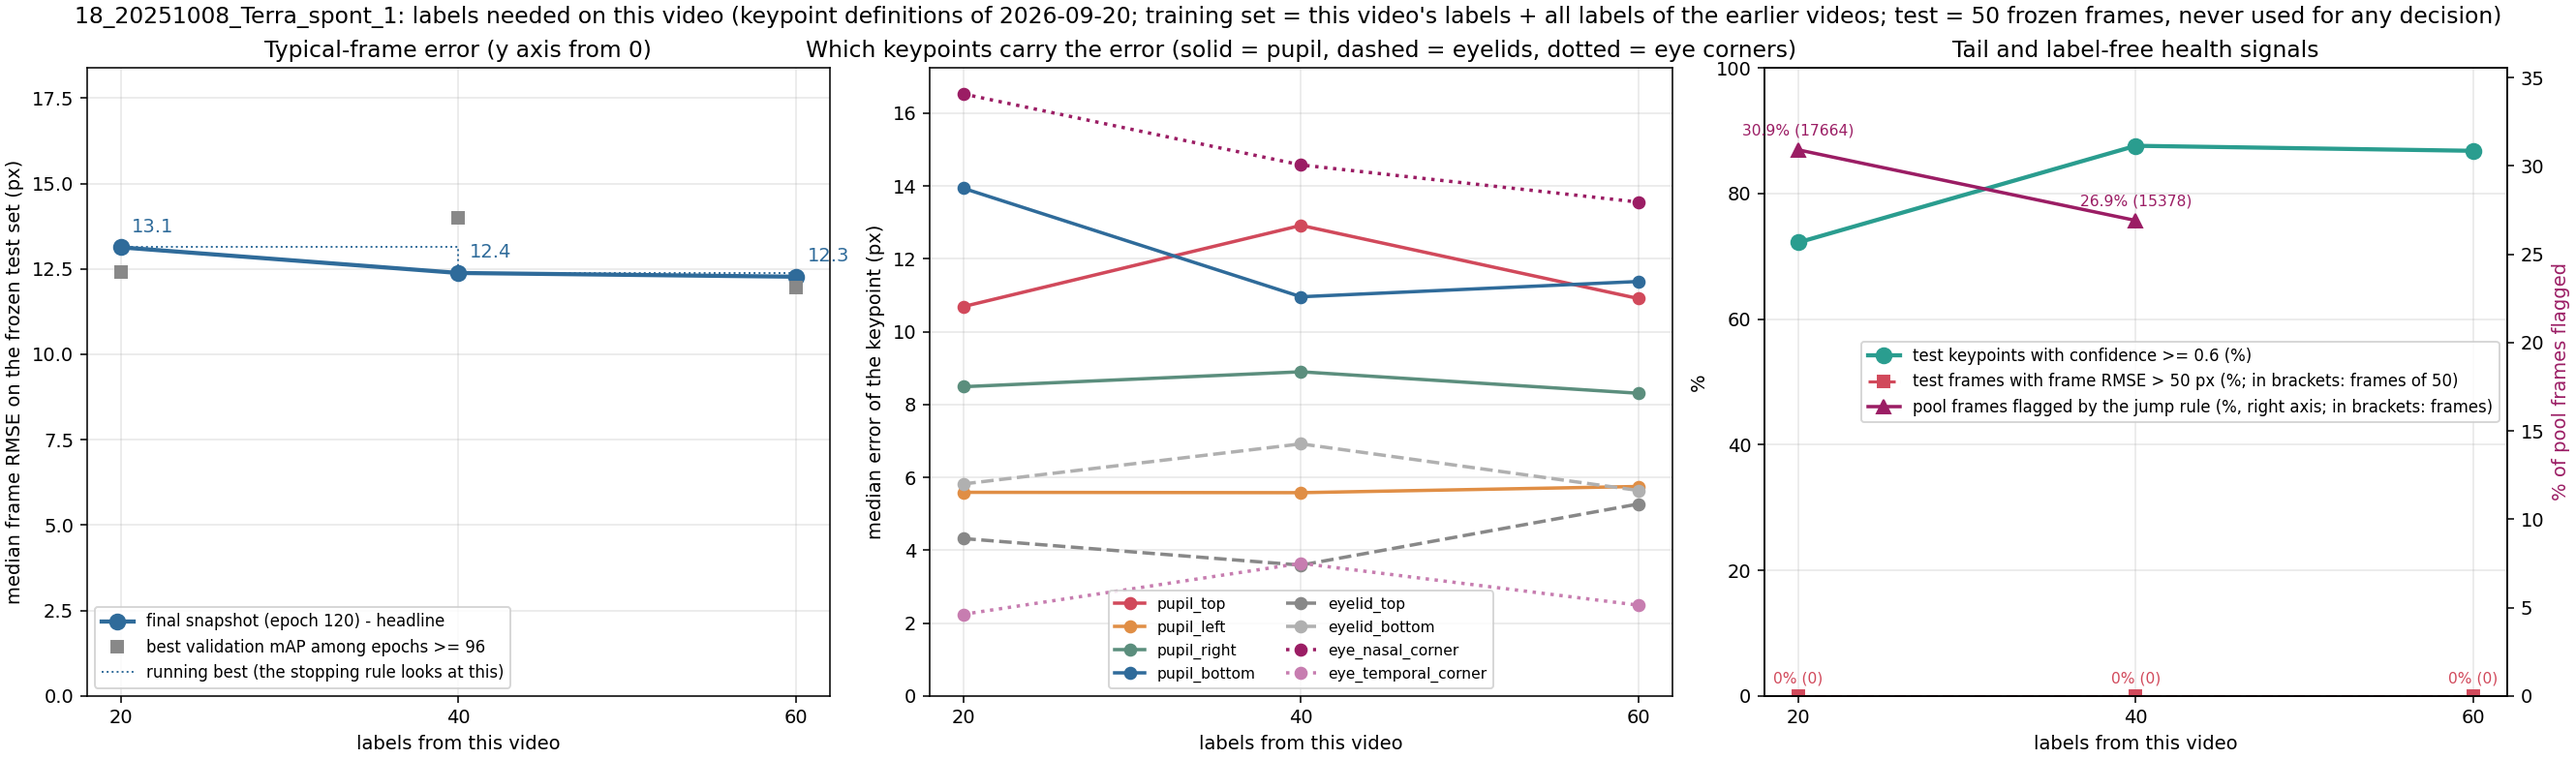
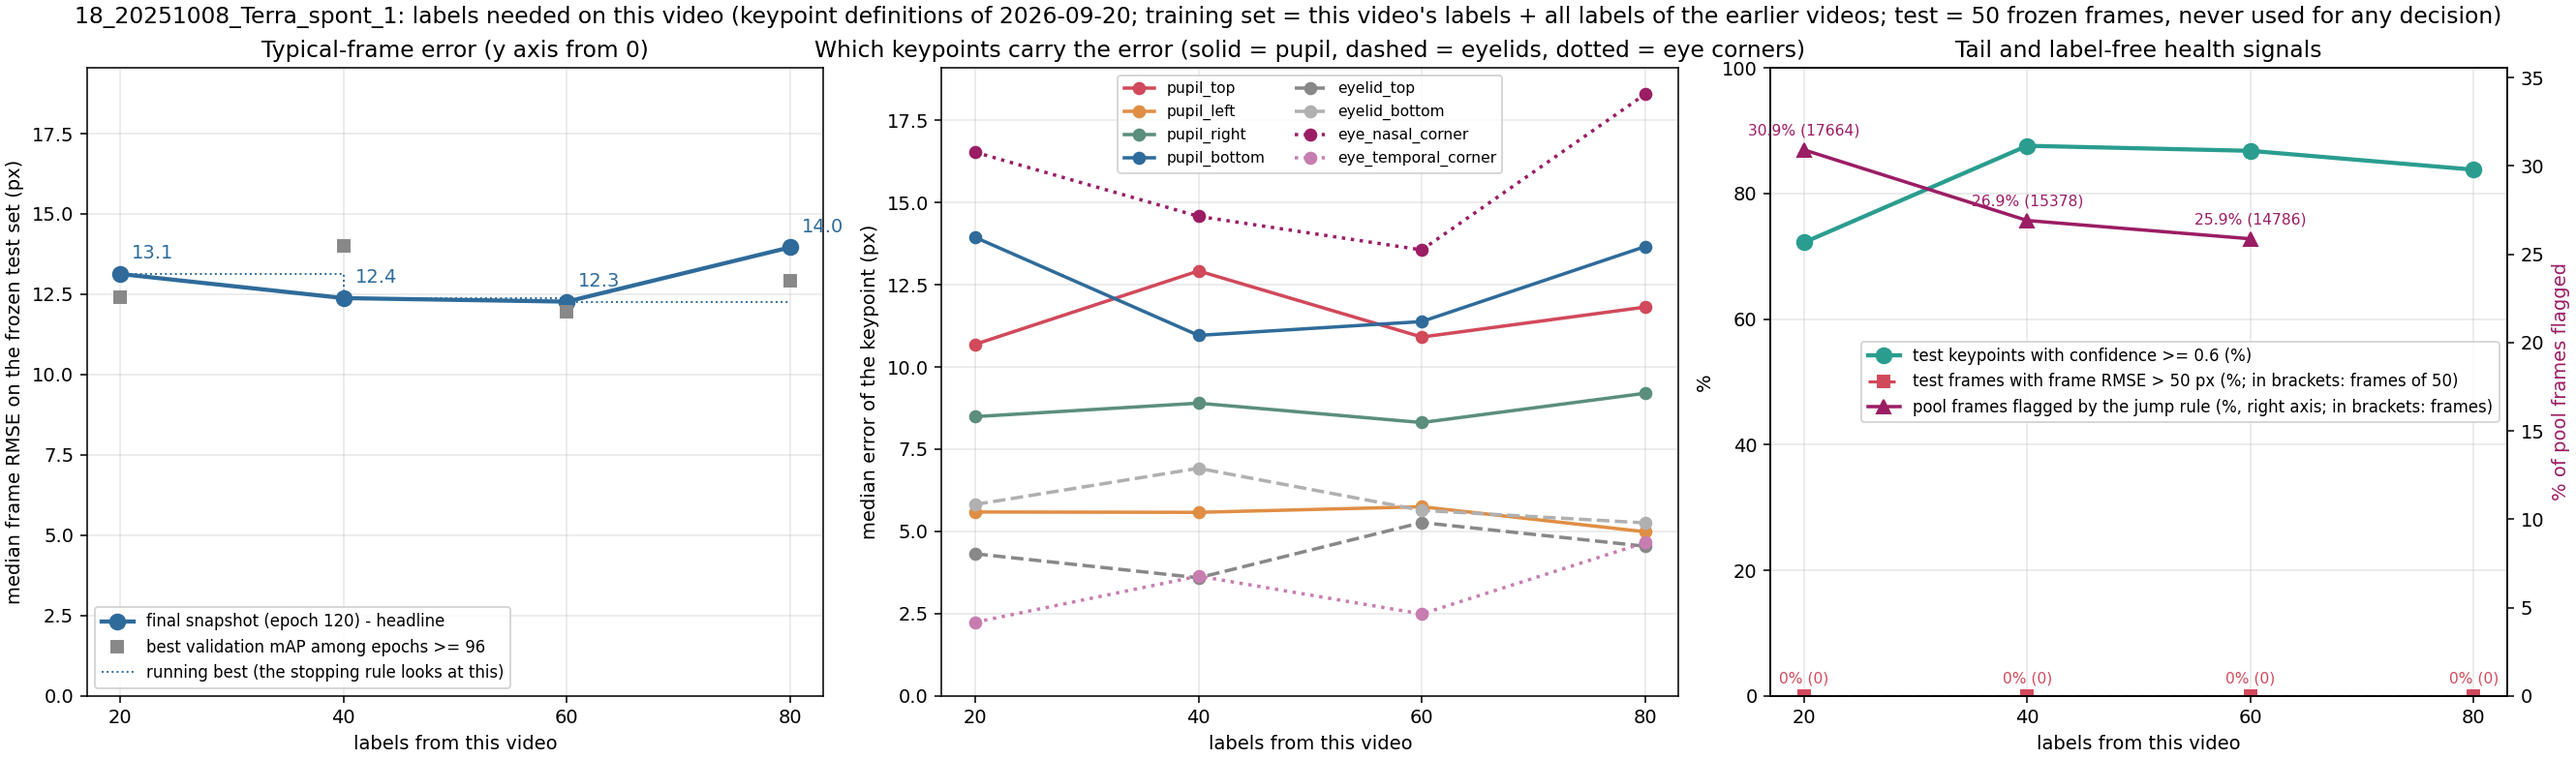
Video 18 step 4: 80 labels = 13.96 px, plateau rule fired at 40 labels (12.38 px); video 18 closed

diff --git a/README.md b/README.md
@@ -32,7 +32,7 @@ per-frame predictions stay local; git carries code, documentation and audited ag
 | Finished | **video 16** (Terra, 2025-10-10): test50 / val20 / batch01 extracted on 2026-10-08 (model-free) and pre-labeled with the video-15 plateau model (1612, 40 labels) and corrected by the labeler on 2026-10-08 (test50: 136 of 400 points moved), test set frozen; 0 labels (model 1612) = 11.35 px (p90 23.1, 0% of frames > 50 px, 76% of keypoints with confidence >= 0.6); 20 labels (shuffle 1711) = 7.72 px (p90 11.5, 2% of frames > 50 px, 96% confidence; 32% better than the 0-label number); batch 2 selected (only 464 of 57158 pool frames flagged by the jump rule, 0.8%: the 20-label model tracks this day smoothly) and labeled; 40 labels (shuffle 1712) = 7.15 px (p90 11.3, 0% > 50 px, 98% confidence; 7.4% better than 7.72, an improving step); batch 3 selected (347 of 57158 pool frames flagged, 0.6%) and labeled; 60 labels (shuffle 1713) = 7.26 px (p90 10.1; 1.5% worse than the running best 7.15: first step without a gain above 3%); batch 4 selected (290 flagged) and labeled; 80 labels (shuffle 1714) = 7.78 px (p90 12.2; worse than 7.15): second flat step, the plateau rule fired at 80 labels (2026-10-10 02:23), plateau point 40 labels = 7.15 px; closed on 2026-10-10 by the user's decision (tag `v0.9.18-video16-plateau`), batches 1-2 carried (740 labels into video 17). Fewer-labels: 5 labels 9.18 / 10.42 px, 10 labels 9.35 / 9.18 px (all above the 20-label 7.72 px). Training set of every step = 700 carried labels of videos 0-15 + this video's labels; shuffles 1711, 1712, ... |
 | Analysis (2026-10-04) | blink and pupil area on all 12 finished videos (`v2_new_pupil_top_video_scaling/results/blink_and_area/`): four-point area median error 6.6% (three-point 8.3%); closed eye best detected by the mean confidence of the four pupil points (27 of 28 closed frames, 4.1% of open frames flagged; the earlier rule flags 55.7%); area traces still contain tracking jumps not covered by the closure rule. Error and confidence per keypoint (`.../results/keypoint_confidence_error/`): pupil top is the least accurate point (10.9 px median) |
 | Finished | **video 17** (Terra, 2025-10-09): test50 / val20 / batch01 extracted on 2026-10-10 (model-free), pre-labeled with the video-16 plateau model (1712, 40 labels) and corrected by the labeler (test50: 76 of 400 points moved), test set frozen; 0 labels (model 1712) = 6.38 px (p90 8.7, 0% of frames > 50 px, 82% of keypoints with confidence >= 0.6); 20 labels (shuffle 1811) = 4.75 px (p90 6.7, 0% > 50 px, 96% confidence; 26% better than the 0-label number); batch 2 selected (4916 of 57158 pool frames flagged by the jump rule, 8.6%) and labeled; 40 labels (shuffle 1812) = 4.47 px (p90 6.2, 0% > 50 px, 95% confidence; 5.9% better than 20 labels, an improving step); batch 3 selected (4165 of 57158 pool frames flagged, 7.3%) and labeled; 60 labels (shuffle 1813) = 4.89 px (p90 7.0, 0% > 50 px, 96% confidence; 9% worse than 40 labels, the first step without gain, one more step is run); batch 4 selected (2726 flagged, 4.8%) and labeled; 80 labels (shuffle 1814) = 4.50 px (p90 6.4; not below 4.34 px): second flat step, the plateau rule fired at 80 labels (2026-10-11 11:27), plateau point 40 labels = 4.47 px; closed on 2026-10-11 under the standing rule (tag `v0.9.19-video17-plateau`), batches 1-2 carried (780 labels into video 18); training set of every step = 740 carried labels of videos 0-16 + this video's labels; shuffles 1811, 1812, ... |
-| In progress | **video 18** (Terra, 2025-10-08; the last video): test50 / val20 / batch01 extracted on 2026-10-11 (model-free), pre-labeled with the video-17 plateau model (1812, 40 labels) and corrected by the labeler (test50: 260 of 400 points moved), test set frozen; 0 labels (model 1812) = 38.24 px (p90 57.5, 22% of frames > 50 px, 59% of keypoints with confidence >= 0.6; the best existing model, 1814, gives 24.3 px); 20 labels (shuffle 1911) = 13.13 px (p90 37.3, 0% > 50 px, 72% confidence; 66% better than the 0-label number); batch 2 selected 2026-10-11 17:40 (the jump rule flags 17664 of 57158 pool frames, 31%) and labeled 22:49; 40 labels (shuffle 1912) = 12.38 px (p90 33.9, 0% > 50 px, 88% confidence; 5.7% better than 13.13, so the running best moves to 12.38); batch 3 selected 2026-10-12 02:41 (the jump rule flags 15378 of 57158 pool frames, 27%) and labeled 07:57; 60 labels (shuffle 1913) = 12.27 px (p90 34.5, 0% > 50 px, 87% confidence; only 0.9% better than 12.38, so the first flat step; the running best stays 12.38); batch 4 selected 2026-10-12 11:54 (the jump rule flags 14786 of 57158 pool frames, 26%) and labeled 12:02; 80 labels (shuffle 1914) training since 12:04 (below 12.01 px = improvement, otherwise the plateau is 40 labels); training set of every step = 780 carried labels of videos 0-17 + this video's labels; shuffles 1911, 1912, ... |
+| Finished | **video 18** (Terra, 2025-10-08; the last video): test50 / val20 / batch01 extracted on 2026-10-11 (model-free), pre-labeled with the video-17 plateau model (1812, 40 labels) and corrected by the labeler (test50: 260 of 400 points moved), test set frozen; 0 labels (model 1812) = 38.24 px (p90 57.5, 22% of frames > 50 px, 59% of keypoints with confidence >= 0.6; the best existing model, 1814, gives 24.3 px); 20 labels (shuffle 1911) = 13.13 px (p90 37.3, 0% > 50 px, 72% confidence; 66% better than the 0-label number); batch 2 selected 2026-10-11 17:40 (the jump rule flags 17664 of 57158 pool frames, 31%) and labeled 22:49; 40 labels (shuffle 1912) = 12.38 px (p90 33.9, 0% > 50 px, 88% confidence; 5.7% better than 13.13, so the running best moves to 12.38); batch 3 selected 2026-10-12 02:41 (the jump rule flags 15378 of 57158 pool frames, 27%) and labeled 07:57; 60 labels (shuffle 1913) = 12.27 px (p90 34.5, 0% > 50 px, 87% confidence; only 0.9% better than 12.38, so the first flat step; the running best stays 12.38); batch 4 selected 2026-10-12 11:54 (the jump rule flags 14786 of 57158 pool frames, 26%) and labeled 12:02; 80 labels (shuffle 1914) = 13.96 px (p90 33.5, 0% > 50 px, 84% confidence; worse than 12.38, so the second flat step): the plateau rule fired, **plateau = 40 labels, 12.38 px**, video closed 2026-10-12 17:43 under the standing rule (tag `v0.9.20-video18-plateau`); the 80-label whole-video prediction was stopped (no batch 5 needed); training set of every step = 780 carried labels of videos 0-17 + this video's labels; shuffles 1911, 1912, ... |
 | Next | none: video 18 is the last video of the planned set |
 
 ## Main results so far (era 3, `v2_new_pupil_top_video_scaling/`)

diff --git a/v2_new_pupil_top_video_scaling/18_20251008_Terra_spont_1/results/README.md b/v2_new_pupil_top_video_scaling/18_20251008_Terra_spont_1/results/README.md
@@ -20,6 +20,7 @@ of its unchanged points have a pre-label confidence below 0.6 (12 eye-corner poi
 | 20 (shuffle 1911) | 13.13 px | 37.3 | 0% | 72% | 17664 of 57158 (31%) |
 | 40 (shuffle 1912) | 12.38 px | 33.9 | 0% | 88% | 15378 of 57158 (27%) |
 | 60 (shuffle 1913) | 12.27 px | 34.5 | 0% | 87% | 14786 of 57158 (26%) |
+| 80 (shuffle 1914) | 13.96 px | 33.5 | 0% | 84% | not run (plateau) |
 
 The 0-label point is the worst of the Terra videos since video 13 (69 px): the eyelid points are fine (median 0-6 px) but
 every pupil point is 38-54 px off, and the model is confident on only 59% of the points. No existing model does well on
@@ -42,4 +43,11 @@ nasal corner 13.6, eyelids 5.3 / 5.6, temporal corner 2.5 px. Batch 4 (20 frames
 60-label model's whole-video prediction: the jump rule (eps 13.0 px) flags 14786 of the 57158 pool frames (26%; 31% and 27%
 at the two earlier steps; video 17 had 4.8% at the same step).
 
-Step 4 (80 labels, shuffle 1914) is training (started 2026-10-12 12:04); it improves if its median is below 12.01 px, otherwise the plateau rule fires at 40 labels.
+Step 4 (80 labels, 2026-10-12 14:48): 13.96 px, 12.8% worse than the running best of 12.38 px (it had to be below 12.01 px
+to count), so the second flat step in a row and the plateau rule fires: **plateau = 40 labels, 12.38 px (shuffle 1912)**.
+p90 33.5 px, 84% of keypoints confident. Per-point medians at 80 labels: pupil top 11.8, bottom 13.7, right 9.2, left 5.0 px;
+nasal corner 18.3, eyelids 4.6 / 5.3, temporal corner 4.7 px (the nasal corner and the pupil bottom got worse). The
+whole-video prediction of the 80-label model was stopped (no batch 5 is needed; the battery guard had already paused it at
+17:12), so the last row of the table has no flagged count. Video 18 closed on 2026-10-12 under the standing rule (the rule
+fires, the video closes). This is the last video of the set, so nothing is carried further; batches 1-2 (40 labels) are the
+plateau labels of this video, and the set of labels a future video would start from is 780 + 40 = 820.

diff --git a/v2_new_pupil_top_video_scaling/results/README.md b/v2_new_pupil_top_video_scaling/results/README.md
@@ -30,7 +30,7 @@ snapshot with the best validation mAP after the first learning-rate drop (epochs
 | 15 `15_20251013_Terra_spont_1` | mouse C (Terra), 19.9 min, 2025-10-13 | 660 (600 + 60 of video 14) | convention v2: 10.57 / 11.42 / 9.73 / 9.61 / 10.24 | **40 labels** (rule fired at 80) | 9.73 px |
 | 16 `16_20251010_Terra_spont_1` | mouse C (Terra), 19.9 min, 2025-10-10 | 700 (660 + 40 of video 15) | convention v2: 11.35 / 7.72 / 7.15 / 7.26 / 7.78 | **40 labels** (rule fired at 80) | 7.15 px |
 | 17 `17_20251009_Terra_spont_1` | mouse C (Terra), 19.9 min, 2025-10-09 | 740 (700 + 40 of video 16) | convention v2: 6.38 / 4.75 / 4.47 / 4.89 / 4.50 | **40 labels** (rule fired at 80) | 4.47 px |
-| 18 `18_20251008_Terra_spont_1` | mouse C (Terra), 19.9 min, 2025-10-08 | 780 (740 + 40 of video 17) | convention v2: 38.24 / 13.13 / 12.38 / 12.27 | in progress | – |
+| 18 `18_20251008_Terra_spont_1` | mouse C (Terra), 19.9 min, 2025-10-08 | 780 (740 + 40 of video 17) | convention v2: 38.24 / 13.13 / 12.38 / 12.27 / 13.96 | **40 labels** (rule fired at 80) | 12.38 px |
 
 `labels_to_plateau.png` / `labels_to_plateau.csv` (2026-09-30): the plateau point of every video in the sequence as one figure - labels needed (left) and the error at the plateau vs the 0-label error (right); `scripts/plot_labels_to_plateau.py`. The csv is the table above in machine-readable form and is updated when a video finishes.
 

diff --git a/CHANGELOG.md b/CHANGELOG.md
@@ -15,6 +15,7 @@ Important changes (a video finished, a protocol or label-convention change, a ne
 
 | tag | date | what it marks |
 |---|---|---|
+| `v0.9.20-video18-plateau` | 2026-10-12 | Video 18 (Terra, 2025-10-08; the last video of the set) finished: plateau at 40 labels, 12.38 px (0 / 20 / 40 / 60 / 80 = 38.24 / 13.13 / 12.38 / 12.27 / 13.96 px; rule fired at 80; closed under the standing rule). All 19 videos are now at their plateau. |
 | `v0.9.19-video17-plateau` | 2026-10-11 | Video 17 (Terra, 2025-10-09) finished: plateau at 40 labels, 4.47 px (0 / 20 / 40 / 60 / 80 = 6.38 / 4.75 / 4.47 / 4.89 / 4.50 px; rule fired at 80; closed under the standing rule); batches 1-2 carried, 780 labels into video 18. Video 18 (the last video) started. |
 | `v0.9.18-video16-plateau` | 2026-10-10 | Video 16 (Terra, 2025-10-10) finished: plateau at 40 labels, 7.15 px (0 / 20 / 40 / 60 / 80 = 11.35 / 7.72 / 7.15 / 7.26 / 7.78 px; rule fired at 80; user decision); batches 1-2 carried, 740 labels into video 17. Video 17 started. |
 | `v0.9.17-video15-plateau` | 2026-10-08 | Video 15 (Terra, 2025-10-13) finished: plateau at 40 labels, 9.73 px (0 / 20 / 40 / 60 / 80 = 10.57 / 11.42 / 9.73 / 9.61 / 10.24 px; rule fired at 80; user decision); batches 1-2 carried, 700 labels into video 16. Video 16 started (frames extracted, pre-labels from model 1612). |
